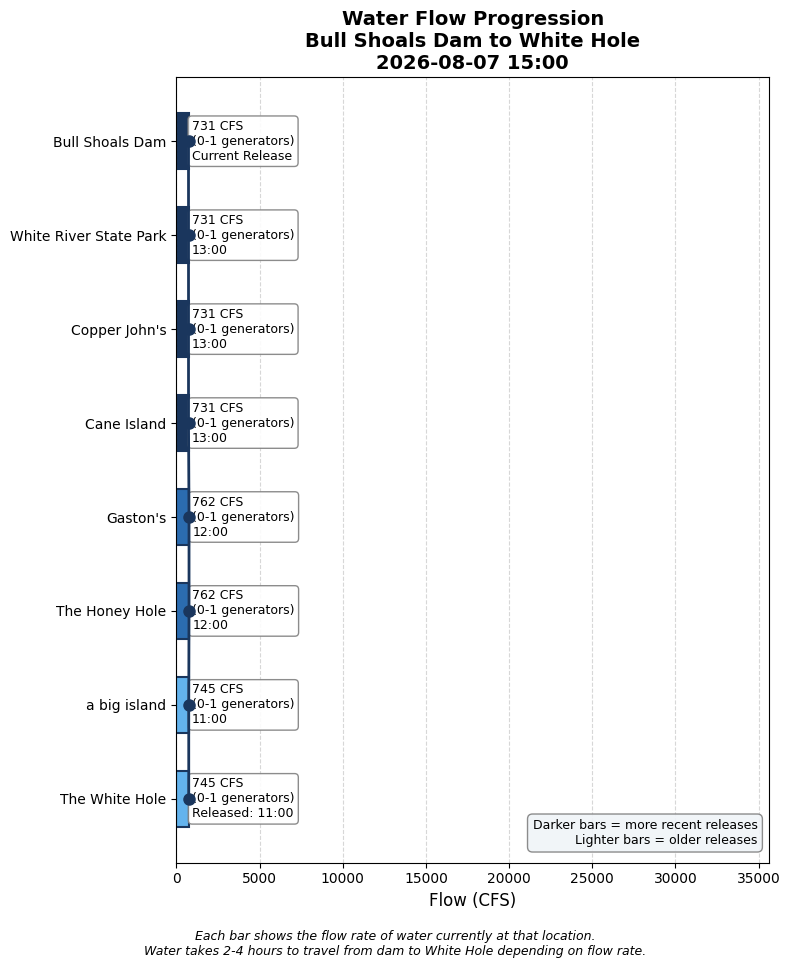
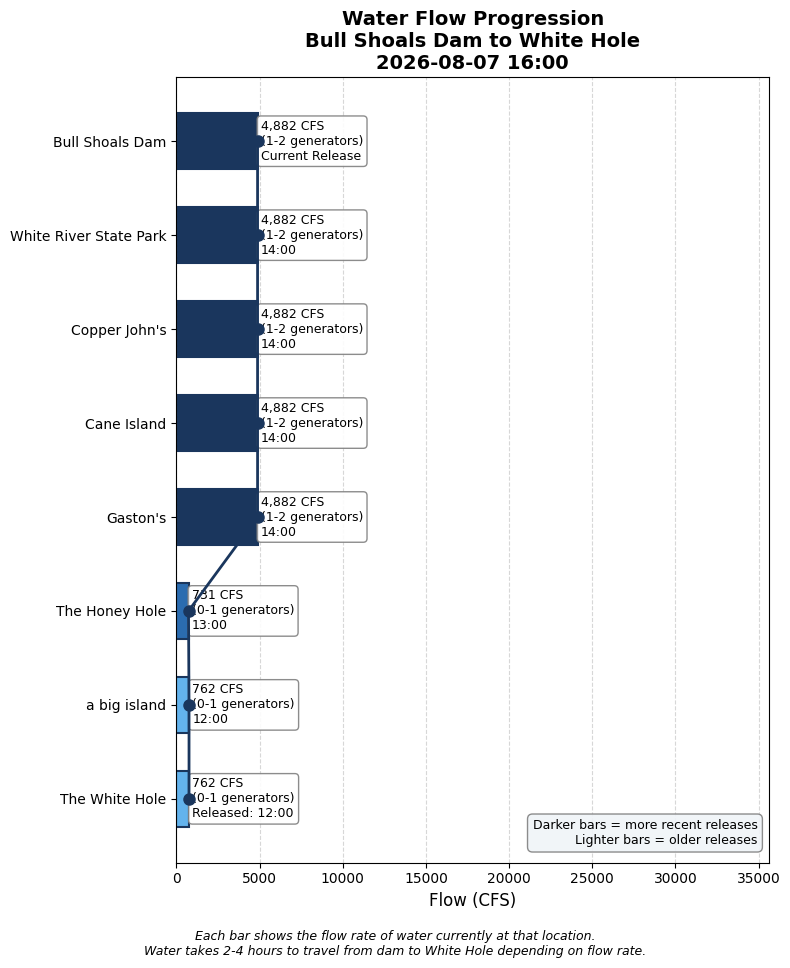
Update water conditions 2026-08-07 16:00

diff --git a/white_hole_conditions.html b/white_hole_conditions.html
@@ -3,7 +3,7 @@
 <head>
     <meta charset="UTF-8">
     <meta name="viewport" content="width=device-width, initial-scale=1.0">
-    <title>White Hole Conditions - 2026-08-07 15:00</title>
+    <title>White Hole Conditions - 2026-08-07 16:00</title>
     <style>
         body {
             font-family: -apple-system, BlinkMacSystemFont, 'Segoe UI', Roboto, sans-serif;
@@ -148,19 +148,19 @@
 </head>
 <body>
     <h1>White Hole Current Conditions</h1>
-    <p class="subtitle">Friday, August 07, 2026 at 03:00 PM</p>
+    <p class="subtitle">Friday, August 07, 2026 at 04:00 PM</p>
 
     <!-- HEADLINE BANNER -->
     <div class="headline-banner">
         <div class="main-status">✅ GOOD WADING — Conditions favorable</div>
-        <div class="forecast-status">➡ STABLE CONDITIONS expected</div>
-        <div class="forecast-status" style="margin-top: 5px; opacity: 0.9;">📅 HIGH WATER SCHEDULED — ~4:53 PM</div>
+        <div class="forecast-status">⏱ RISING WATER arriving in ~43 minutes</div>
+        <div class="forecast-status" style="margin-top: 5px; opacity: 0.9;">📅 HIGH WATER SCHEDULED — ~6:07 PM</div>
     </div>
 
     <!-- CURRENT CONDITIONS -->
     <div class="current-conditions">
         <h3>Current Conditions at White Hole</h3>
-        <div class="flow-display">745 CFS</div>
+        <div class="flow-display">762 CFS</div>
         <div class="generator-display">Equivalent to 0-1 generators</div>
         <div class="condition-pills">
             <span class="pill wading">Excellent Wading</span>
@@ -189,6 +189,14 @@
                 <tr><td colspan="3" style="padding: 8px 10px; font-size: 0.8em; font-weight: bold; color: #6b46c1; text-transform: uppercase; letter-spacing: 0.05em; background-color: #f3e8ff;">Scheduled (SWPA forecast)</td></tr>
                 
                     <tr style="background-color: #faf5ff; border-left: 4px solid #e53e3e;">
+                        <td style="padding: 10px; font-weight: bold;">7 PM</td>
+                        <td style="padding: 10px;">14,429 CFS<br><small style="color: #666;">(4-5 generators: 14179 generation + 250 min flow)</small></td>
+                        <td style="padding: 10px;">~9:21 PM
+                            <span style="display: inline-block; margin-left: 6px; padding: 2px 8px; border-radius: 12px; font-size: 0.8em; background-color: #fee2e2; color: #991b1b;">No Wading</span>
+                        </td>
+                    </tr>
+                
+                    <tr style="background-color: #faf5ff; border-left: 4px solid #e53e3e;">
                         <td style="padding: 10px; font-weight: bold;">6 PM</td>
                         <td style="padding: 10px;">15,779 CFS<br><small style="color: #666;">(4-5 generators: 15529 generation + 250 min flow)</small></td>
                         <td style="padding: 10px;">~8:16 PM
@@ -212,39 +220,31 @@
                         </td>
                     </tr>
                 
-                    <tr style="background-color: #faf5ff; border-left: 4px solid #e53e3e;">
-                        <td style="padding: 10px; font-weight: bold;">3 PM</td>
-                        <td style="padding: 10px;">22,194 CFS<br><small style="color: #666;">(6-7 generators: 21944 generation + 250 min flow)</small></td>
-                        <td style="padding: 10px;">~4:53 PM
-                            <span style="display: inline-block; margin-left: 6px; padding: 2px 8px; border-radius: 12px; font-size: 0.8em; background-color: #fee2e2; color: #991b1b;">No Wading</span>
-                        </td>
-                    </tr>
-                
             
                     
                 <tr><td colspan="3" style="padding: 8px 10px; font-size: 0.8em; font-weight: bold; color: #2b6cb0; text-transform: uppercase; letter-spacing: 0.05em; background-color: #ebf8ff;">Actual (dam readings)</td></tr>
                 
                     <tr style="background-color: #ebf8ff;">
-                        <td style="padding: 10px; font-weight: bold;">1:00 PM</td>
-                        <td style="padding: 10px;">731 CFS<br><small style="color: #666;">(0-1 generators)</small></td>
-                        <td style="padding: 10px;"><span style="color: #2b6cb0;">→ Arrives ~4:44 PM (in 103 min)</span></td>
+                        <td style="padding: 10px; font-weight: bold;">2:00 PM</td>
+                        <td style="padding: 10px;">4,882 CFS<br><small style="color: #666;">(1-2 generators)</small></td>
+                        <td style="padding: 10px;"><span style="color: #2b6cb0;">→ Arrives ~5:18 PM (in 78 min)</span></td>
                     </tr>
                 
                     <tr style="background-color: #ebf8ff;">
-                        <td style="padding: 10px; font-weight: bold;">12:00 PM</td>
-                        <td style="padding: 10px;">762 CFS<br><small style="color: #666;">(0-1 generators)</small></td>
-                        <td style="padding: 10px;"><span style="color: #2b6cb0;">→ Arrives ~3:44 PM (in 43 min)</span></td>
+                        <td style="padding: 10px; font-weight: bold;">1:00 PM</td>
+                        <td style="padding: 10px;">731 CFS<br><small style="color: #666;">(0-1 generators)</small></td>
+                        <td style="padding: 10px;"><span style="color: #2b6cb0;">→ Arrives ~4:44 PM (in 43 min)</span></td>
                     </tr>
                 
                     <tr style="background-color: #e6fffa;">
-                        <td style="padding: 10px; font-weight: bold;">11:00 AM</td>
-                        <td style="padding: 10px;">745 CFS<br><small style="color: #666;">(0-1 generators)</small></td>
+                        <td style="padding: 10px; font-weight: bold;">12:00 PM</td>
+                        <td style="padding: 10px;">762 CFS<br><small style="color: #666;">(0-1 generators)</small></td>
                         <td style="padding: 10px;"><span style="color: #319795; font-weight: bold;">← AT WHITE HOLE NOW</span></td>
                     </tr>
                 
                     <tr style="">
-                        <td style="padding: 10px; font-weight: bold;">8:00 AM</td>
-                        <td style="padding: 10px;">715 CFS<br><small style="color: #666;">(0-1 generators)</small></td>
+                        <td style="padding: 10px; font-weight: bold;">9:00 AM</td>
+                        <td style="padding: 10px;">724 CFS<br><small style="color: #666;">(0-1 generators)</small></td>
                         <td style="padding: 10px;"><span style="color: #718096;">passed</span></td>
                     </tr>
                 
@@ -274,9 +274,9 @@
         </summary>
         <div style="padding: 15px;">
             <ul>
-                <li>Latest dam reading: 731 CFS at 2026-08-07 13:00</li>
+                <li>Latest dam reading: 4,882 CFS at 2026-08-07 14:00</li>
                 <li>Travel time to White Hole: 3.7 hours at current flow</li>
-                <li>White Hole conditions based on dam reading from: 2026-08-07 11:00</li>
+                <li>White Hole conditions based on dam reading from: 2026-08-07 12:00</li>
             </ul>
         </div>
     </details>
@@ -298,6 +298,13 @@
                     </thead>
                     <tbody>
                         
+                <tr style="border-bottom: 1px solid #eee;">
+                    <td style="padding: 8px;">2026-08-07 14:00</td>
+                    <td style="padding: 8px; text-align: right;">4882</td>
+                    <td style="padding: 8px; text-align: right;">1.5</td>
+                    <td style="padding: 8px; text-align: right;">3.3</td>
+                </tr>
+                
                 <tr style="border-bottom: 1px solid #eee;">
                     <td style="padding: 8px;">2026-08-07 13:00</td>
                     <td style="padding: 8px; text-align: right;">731</td>
@@ -361,13 +368,6 @@
                     <td style="padding: 8px; text-align: right;">3.7</td>
                 </tr>
                 
-                <tr style="border-bottom: 1px solid #eee;">
-                    <td style="padding: 8px;">2026-08-07 04:00</td>
-                    <td style="padding: 8px; text-align: right;">764</td>
-                    <td style="padding: 8px; text-align: right;">0.2</td>
-                    <td style="padding: 8px; text-align: right;">3.7</td>
-                </tr>
-                
                     </tbody>
                 </table>
             </div>
@@ -375,7 +375,7 @@
         
 
     <div class="timestamp">
-        Data retrieved and processed on 2026-08-07 15:00:07
+        Data retrieved and processed on 2026-08-07 16:00:09
     </div>
 </body>
 </html>
